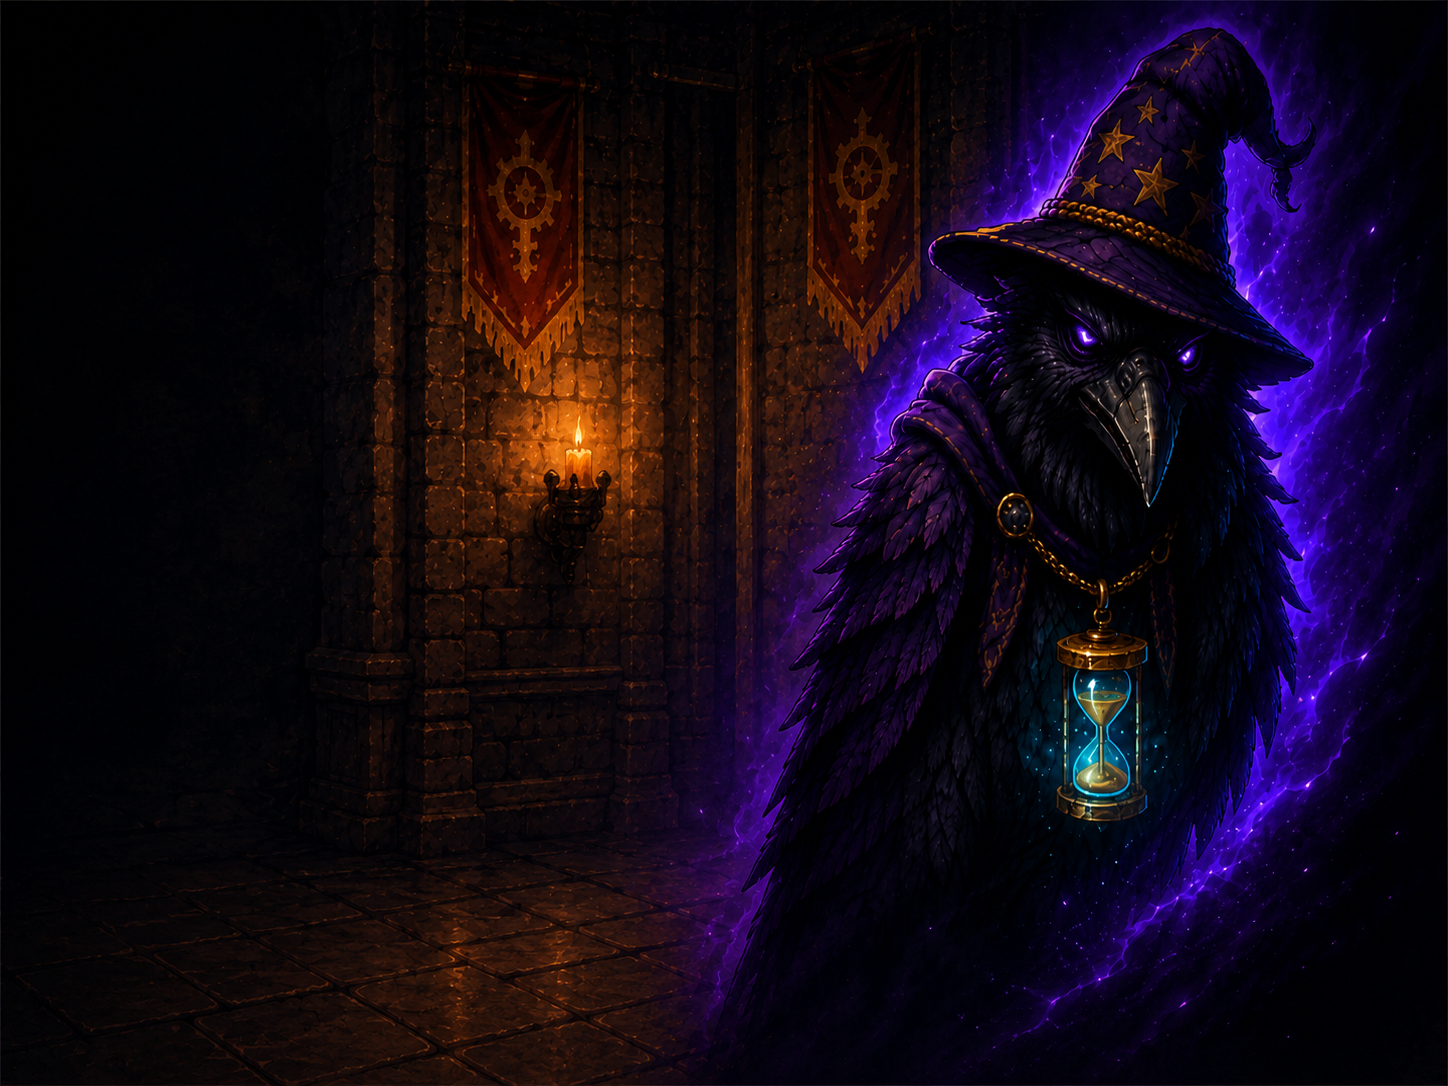
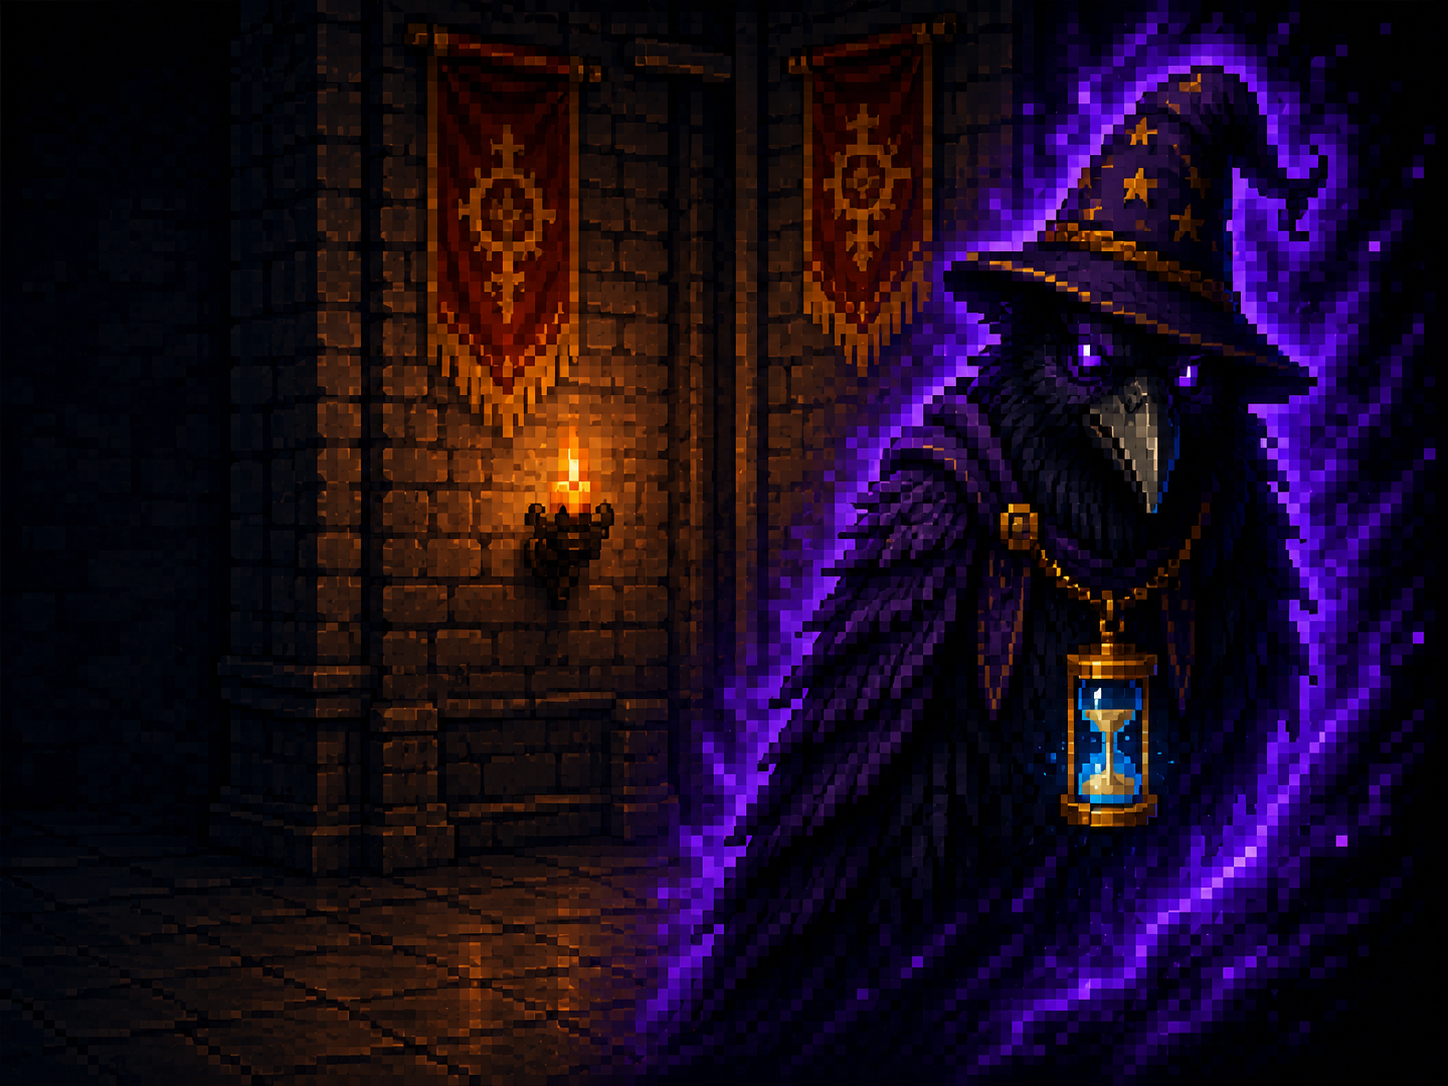
finalização do portal

diff --git a/public/assets/css/capitulo2.css b/public/assets/css/capitulo2.css
@@ -216,6 +216,29 @@
   line-height: 1.55;
 }
 
+.corredor-only {
+  width: min(1120px, calc(100% - 2rem));
+  margin: 4rem auto;
+  padding: 0;
+  background: transparent;
+  border: 1px solid rgba(212, 175, 55, 0.28);
+  border-radius: 18px;
+  box-shadow: 0 24px 60px rgba(0, 0, 0, 0.45);
+  overflow: hidden;
+}
+
+.corredor-only img {
+  display: block;
+  width: 100%;
+  aspect-ratio: 16 / 7;
+  object-fit: cover;
+  object-position: center;
+  border-radius: 18px;
+  box-shadow:
+    0 0 0 1px rgba(212, 175, 55, 0.22),
+    0 24px 44px rgba(0, 0, 0, 0.58);
+}
+
 /* ============================================================
    BARRA DO CAPÍTULO 2
 ============================================================ */
@@ -922,39 +945,6 @@
 }
 
 /* ============================================================
-   PORTAL FINAL - CONTROLES COMPARTILHADOS
-============================================================ */
-
-.porta2-tooltip {
-  position: absolute;
-  left: 50%;
-  top: calc(100% + 0.35rem);
-  z-index: 5;
-  width: max-content;
-  max-width: min(390px, 86%);
-  transform: translateX(-50%) translateY(8px);
-  padding: 0.75rem 1rem;
-  color: #f7e6aa;
-  font-family: "Cinzel", serif;
-  font-size: 0.85rem;
-  text-align: center;
-  background: rgba(7, 6, 10, 0.92);
-  border: 1px solid rgba(212, 175, 55, 0.65);
-  border-radius: 10px;
-  box-shadow: 0 0 28px rgba(118, 61, 184, 0.16);
-  opacity: 0;
-  pointer-events: none;
-  transition: opacity 0.22s ease, transform 0.22s ease;
-}
-
-.guardioes-final-portal-button:hover .porta2-tooltip,
-.guardioes-final-portal-button:focus-visible .porta2-tooltip,
-.guardioes-final-portal-button.porta-liberada .porta2-tooltip {
-  opacity: 1;
-  transform: translateX(-50%) translateY(0);
-}
-
-/* ============================================================
    RESPONSIVO
 ============================================================ */
 
@@ -1208,11 +1198,7 @@
   min-height: 460vh;
   margin: 0;
   padding-top: 0;
-  background:
-    radial-gradient(ellipse at 50% 24%, rgba(166, 58, 255, 0.38) 0, rgba(119, 41, 191, 0.22) 18rem, transparent 34rem),
-    radial-gradient(ellipse at 50% 72%, rgba(142, 45, 224, 0.34) 0, rgba(88, 30, 148, 0.2) 18rem, transparent 34rem),
-    radial-gradient(ellipse at 50% 90%, rgba(105, 36, 168, 0.3), transparent 28rem),
-    linear-gradient(180deg, #05020a 0%, #0b0617 42%, #19082d 74%, #150826 100%);
+  background: #000;
   --guardioes-final-curtain: 0;
   --guardioes-final-stage-opacity: 0;
   --guardioes-final-text-opacity: 0;
@@ -1266,9 +1252,7 @@
   height: 100vh;
   min-height: 100vh;
   overflow: hidden;
-  background:
-    radial-gradient(ellipse at 50% 74%, rgba(101, 35, 168, 0.26), transparent 32rem),
-    linear-gradient(90deg, #030207 0%, #0b0617 22%, #150826 50%, #0b0617 78%, #030207 100%);
+  background: #000;
   opacity: var(--guardioes-final-stage-opacity);
   transition: opacity 0.08s linear;
 }
@@ -1282,9 +1266,7 @@
   position: absolute;
   inset: 0;
   z-index: 0;
-  background:
-    radial-gradient(ellipse at 50% 42%, rgba(126, 45, 202, 0.18), transparent 30rem),
-    linear-gradient(90deg, #030207 0%, #0b0617 22%, #150826 50%, #0b0617 78%, #030207 100%);
+  background: #000;
   pointer-events: none;
 }
 
@@ -1419,6 +1401,8 @@
   position: absolute;
   inset: 0;
   z-index: 8;
+  --portal-mouse-x: 0;
+  --portal-mouse-y: 0;
   display: grid;
   grid-template-rows: minmax(0, 58vh) auto;
   justify-items: center;
@@ -1457,12 +1441,27 @@
 .guardioes-final-portal::after {
   z-index: 1;
   background:
+    radial-gradient(circle at 31% 22%, rgba(244, 225, 170, 0.64) 0 1px, transparent 3px),
+    radial-gradient(circle at 73% 18%, rgba(242, 75, 255, 0.52) 0 1px, transparent 3px),
+    radial-gradient(circle at 82% 40%, rgba(112, 170, 255, 0.46) 0 1px, transparent 3px);
+  opacity: 0.36;
+  transform: translate(
+    calc(var(--portal-mouse-x) * 14px),
+    calc(var(--portal-mouse-y) * 10px)
+  );
+  transition: opacity 0.45s ease, background 0.45s ease;
+}
+
+.guardioes-final-portal.is-portal-active::after {
+  background:
+    radial-gradient(circle at 18% 55%, rgba(228, 75, 255, 0.86) 0 2px, transparent 5px),
     radial-gradient(circle at 28% 23%, rgba(244, 225, 170, 0.82) 0 1px, transparent 3px),
+    radial-gradient(circle at 41% 15%, rgba(130, 167, 255, 0.62) 0 1px, transparent 3px),
+    radial-gradient(circle at 56% 33%, rgba(255, 98, 239, 0.72) 0 1px, transparent 3px),
     radial-gradient(circle at 69% 17%, rgba(242, 75, 255, 0.75) 0 1px, transparent 3px),
     radial-gradient(circle at 82% 38%, rgba(112, 170, 255, 0.72) 0 1px, transparent 3px),
-    radial-gradient(circle at 19% 55%, rgba(228, 75, 255, 0.78) 0 2px, transparent 5px);
-  opacity: 0.75;
-  animation: portalSparksDrift 3.8s ease-in-out infinite;
+    radial-gradient(circle at 87% 68%, rgba(244, 225, 170, 0.62) 0 1px, transparent 3px);
+  opacity: 0.78;
 }
 
 .guardioes-final-scroll[data-final-index="3"] .guardioes-final-slice {
@@ -1487,10 +1486,9 @@
   display: grid;
   place-items: center;
   isolation: isolate;
-  transform: translateY(0.55rem);
-  filter:
-    drop-shadow(0 0 30px rgba(176, 52, 255, 0.56))
-    drop-shadow(0 0 96px rgba(104, 36, 255, 0.34));
+  transform: translateY(clamp(4rem, 7vh, 5.2rem));
+  filter: drop-shadow(0 0 18px rgba(176, 52, 255, 0.18));
+  transition: filter 0.45s ease;
 }
 
 .portal-layer {
@@ -1571,6 +1569,45 @@
   animation: portalSparksDrift 2.8s ease-in-out infinite;
 }
 
+.portal-vortex,
+.portal-fog,
+.portal-sparks {
+  opacity: 0;
+  transition: opacity 0.45s ease, filter 0.45s ease;
+}
+
+.guardioes-final-portal:not(.is-portal-active) .portal-vortex,
+.guardioes-final-portal:not(.is-portal-active) .portal-fog,
+.guardioes-final-portal:not(.is-portal-active) .portal-sparks {
+  animation: none;
+}
+
+.guardioes-final-portal.is-portal-active .guardioes-final-portal-core {
+  filter:
+    drop-shadow(0 0 30px rgba(176, 52, 255, 0.56))
+    drop-shadow(0 0 96px rgba(104, 36, 255, 0.34));
+}
+
+.guardioes-final-portal.is-portal-active .portal-vortex {
+  opacity: 1;
+  animation: portalVortexBreath 3.2s ease-in-out infinite;
+}
+
+.guardioes-final-portal.is-portal-active .portal-fog-back {
+  opacity: 0.42;
+  animation: portalFogBackDrift 6.5s ease-in-out infinite;
+}
+
+.guardioes-final-portal.is-portal-active .portal-fog-front {
+  opacity: 0.34;
+  animation: portalFogFrontDrift 5.8s ease-in-out infinite;
+}
+
+.guardioes-final-portal.is-portal-active .portal-sparks {
+  opacity: 1;
+  animation: portalSparksDrift 2.8s ease-in-out infinite;
+}
+
 @keyframes portalFogBackDrift {
   0%,
   100% {
@@ -1618,12 +1655,20 @@
   0%,
   100% {
     opacity: 0.45;
-    transform: translateY(8px) scale(0.98);
+    transform: translate(
+        calc(var(--portal-mouse-x) * -18px),
+        calc(8px + var(--portal-mouse-y) * -12px)
+      )
+      scale(0.98);
   }
 
   50% {
     opacity: 1;
-    transform: translateY(-8px) scale(1.02);
+    transform: translate(
+        calc(var(--portal-mouse-x) * -26px),
+        calc(-8px + var(--portal-mouse-y) * -18px)
+      )
+      scale(1.02);
   }
 }
 

diff --git a/public/assets/js/capitulo2.js b/public/assets/js/capitulo2.js
@@ -351,8 +351,8 @@ async function concluirHistoriaCapitulo2() {
   const btnConcluir = document.getElementById("btnConcluirHistoriaCapitulo2");
   const btnDesafio = document.getElementById("btnIrDesafioCapitulo2");
   const porta = document.getElementById("porta2Scene");
+  const portal = document.querySelector(".guardioes-final-portal");
   const status = document.getElementById("statusHistoriaCapitulo2");
-  const tooltip = document.querySelector(".porta2-tooltip");
 
   if (btnConcluir) {
     btnConcluir.disabled = true;
@@ -395,8 +395,8 @@ async function concluirHistoriaCapitulo2() {
       porta.classList.add("porta-liberada");
     }
 
-    if (tooltip) {
-      tooltip.textContent = "Atravesse. O Julgamento dos Guardioes comeca do outro lado.";
+    if (portal) {
+      portal.classList.add("is-portal-active");
     }
   } catch (error) {
     console.error(error);
@@ -438,6 +438,26 @@ function configurarConclusaoCapitulo2() {
   }
 }
 
+function configurarParallaxPortalCapitulo2() {
+  const portal = document.querySelector(".guardioes-final-portal");
+
+  if (!portal) return;
+
+  portal.addEventListener("pointermove", (event) => {
+    const rect = portal.getBoundingClientRect();
+    const x = ((event.clientX - rect.left) / rect.width - 0.5) * 2;
+    const y = ((event.clientY - rect.top) / rect.height - 0.5) * 2;
+
+    portal.style.setProperty("--portal-mouse-x", x.toFixed(3));
+    portal.style.setProperty("--portal-mouse-y", y.toFixed(3));
+  });
+
+  portal.addEventListener("pointerleave", () => {
+    portal.style.setProperty("--portal-mouse-x", "0");
+    portal.style.setProperty("--portal-mouse-y", "0");
+  });
+}
+
 function configurarDesbloqueioNavbarCapitulo2() {
   const secaoFinal = document.getElementById("porta2");
 
@@ -470,6 +490,7 @@ document.addEventListener("DOMContentLoaded", () => {
   configurarGuardioes();
   configurarPreparoDesafio();
   configurarConclusaoCapitulo2();
+  configurarParallaxPortalCapitulo2();
   configurarDesbloqueioNavbarCapitulo2();
   ajustarHashInicialCapitulo2();
 });
